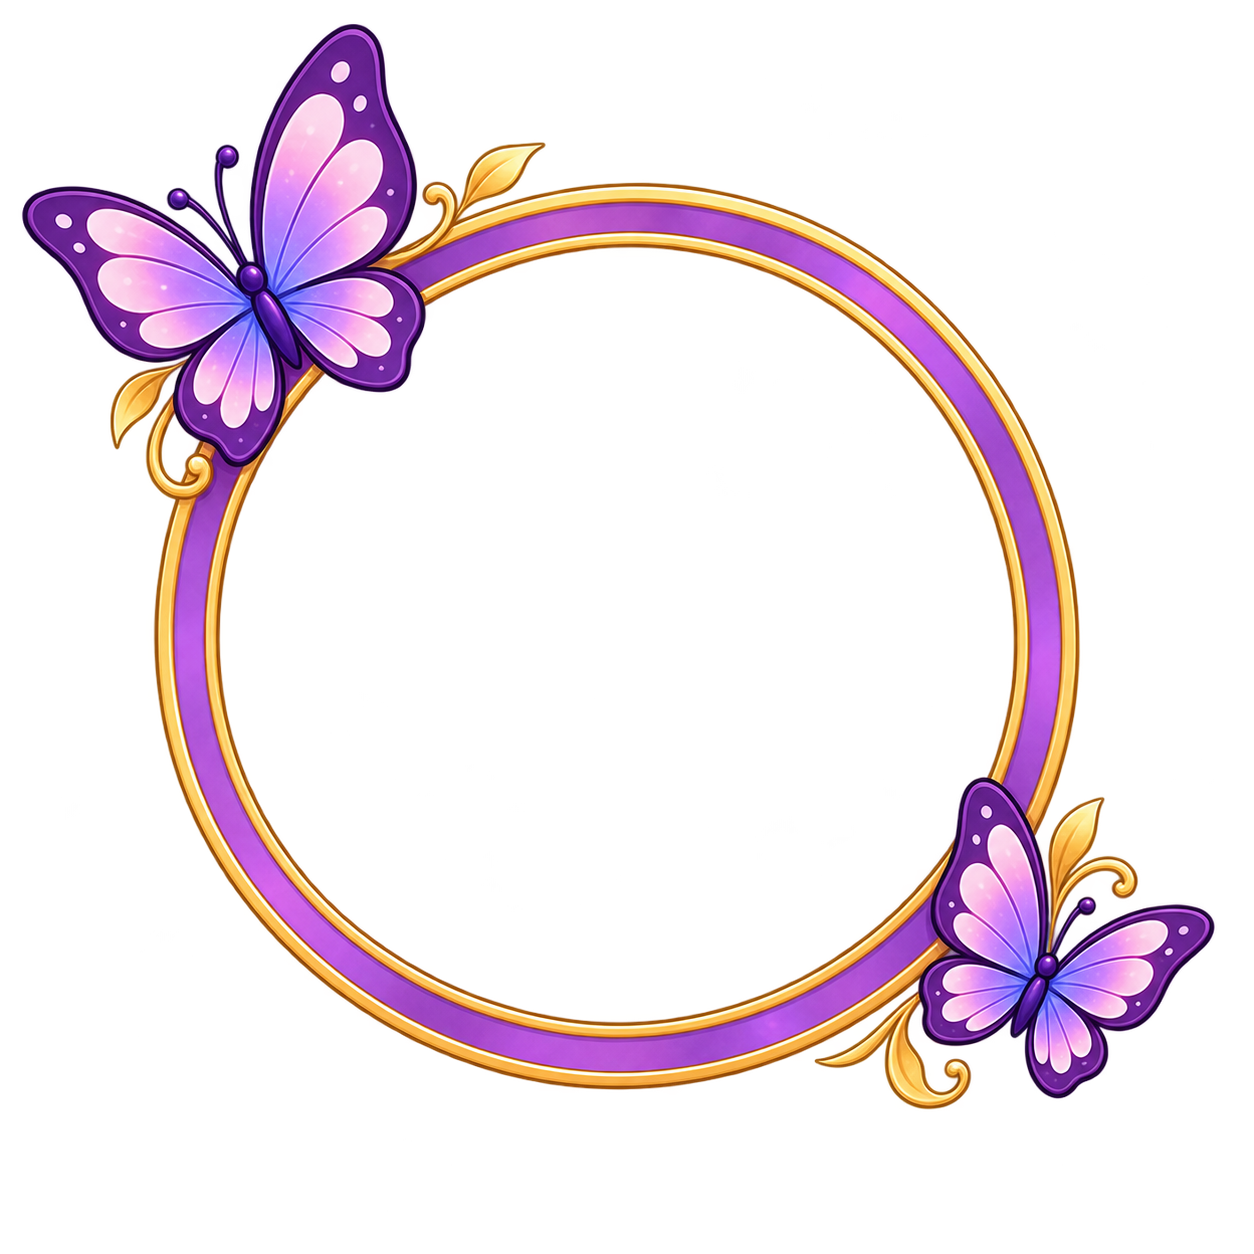
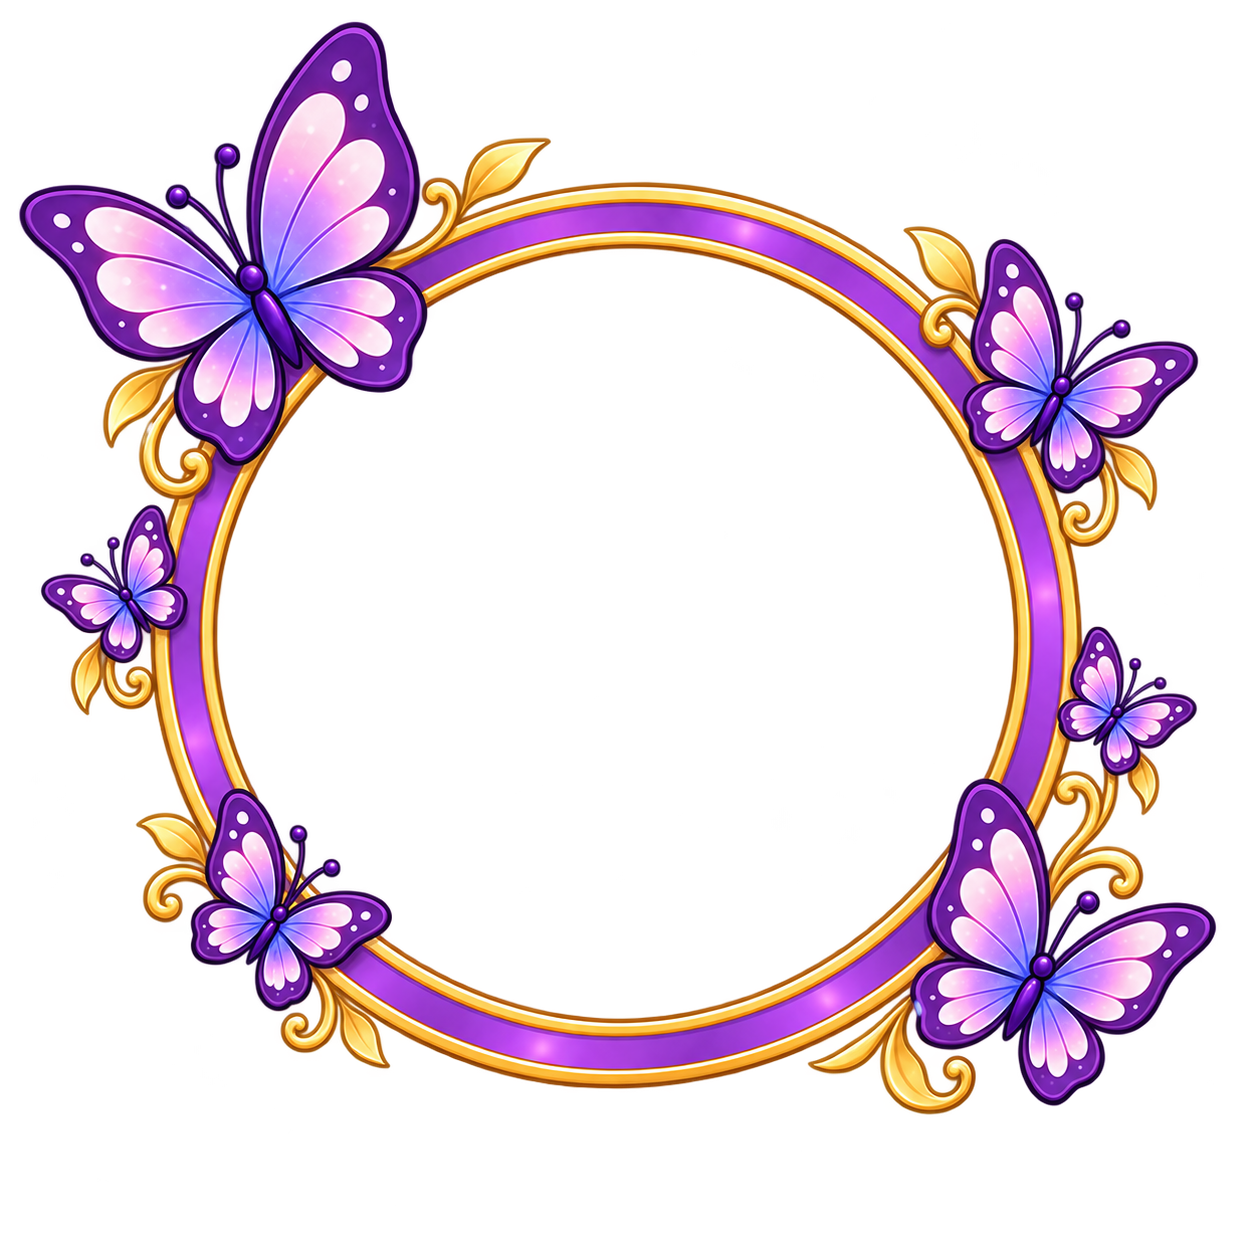
.

Changed region(s): [[0.0, 0.0, 0.9641, 0.9019]]

diff --git a/loja/loja.php b/loja/loja.php
@@ -466,6 +466,16 @@ $estruturaLojaPadrao = [
         ],
 
         [
+            'id' => 'moldura_neon',
+            'nome' => 'Moldura Neon',
+            'descricao' => 'Brilho neon em azul e rosa',
+            'preco' => 80,
+            'icone' => 'fa-regular fa-image',
+            'categoria' => 'molduras',
+            'imagem' => '../img/loja/moldura/neon.png'
+        ],
+
+        [
             'id' => 'moldura_campeao',
             'nome' => 'Moldura Campeão',
             'descricao' => 'Louros dourados de campeão',
@@ -475,21 +485,21 @@ $estruturaLojaPadrao = [
             'imagem' => '../img/loja/moldura/campeao.png'
         ],
 
-        [
-            'id' => 'moldura_estrelas',
-            'nome' => 'Moldura Estrelas',
-            'descricao' => 'Estrelas brilhando ao redor do perfil',
-            'preco' => 75,
+         [
+            'id' => 'moldura_gato_preto',
+            'nome' => 'Moldura Gato Preto',
+            'descricao' => 'Um gatinho preto acompanhando seu perfil',
+            'preco' => 98,
             'icone' => 'fa-regular fa-image',
             'categoria' => 'molduras',
-            'imagem' => '../img/loja/moldura/estrelas.png'
+            'imagem' => '../img/loja/moldura/gatopreto.png'
         ],
 
         [
             'id' => 'moldura_fogo',
             'nome' => 'Moldura Fogo',
             'descricao' => 'Chamas intensas ao redor do perfil',
-            'preco' => 80,
+            'preco' => 100,
             'icone' => 'fa-regular fa-image',
             'categoria' => 'molduras',
             'imagem' => '../img/loja/moldura/fogo.png'
@@ -506,16 +516,6 @@ $estruturaLojaPadrao = [
         ],
 
         [
-            'id' => 'moldura_gato_preto',
-            'nome' => 'Moldura Gato Preto',
-            'descricao' => 'Um gatinho preto acompanhando seu perfil',
-            'preco' => 85,
-            'icone' => 'fa-regular fa-image',
-            'categoria' => 'molduras',
-            'imagem' => '../img/loja/moldura/gatopreto.png'
-        ],
-
-        [
             'id' => 'moldura_livros',
             'nome' => 'Moldura Livros',
             'descricao' => 'Livros e estrelas para quem vive estudando',
@@ -523,26 +523,6 @@ $estruturaLojaPadrao = [
             'icone' => 'fa-regular fa-image',
             'categoria' => 'molduras',
             'imagem' => '../img/loja/moldura/livros.png'
-        ],
-
-        [
-            'id' => 'moldura_querubim',
-            'nome' => 'Moldura Querubim',
-            'descricao' => 'Asas claras com detalhes dourados',
-            'preco' => 95,
-            'icone' => 'fa-regular fa-image',
-            'categoria' => 'molduras',
-            'imagem' => '../img/loja/moldura/querubim.png'
-        ],
-
-        [
-            'id' => 'moldura_rei',
-            'nome' => 'Moldura Rei',
-            'descricao' => 'Detalhes dourados dignos de realeza',
-            'preco' => 100,
-            'icone' => 'fa-regular fa-image',
-            'categoria' => 'molduras',
-            'imagem' => '../img/loja/moldura/rei.png'
         ],
 
         [
@@ -556,13 +536,13 @@ $estruturaLojaPadrao = [
         ],
 
         [
-            'id' => 'moldura_neon',
-            'nome' => 'Moldura Neon',
-            'descricao' => 'Brilho neon em azul e rosa',
-            'preco' => 80,
+            'id' => 'moldura_querubim',
+            'nome' => 'Moldura Querubim',
+            'descricao' => 'Asas claras com detalhes dourados',
+            'preco' => 95,
             'icone' => 'fa-regular fa-image',
             'categoria' => 'molduras',
-            'imagem' => '../img/loja/moldura/neon.png'
+            'imagem' => '../img/loja/moldura/querubim.png'
         ],
 
         [
@@ -573,6 +553,16 @@ $estruturaLojaPadrao = [
             'icone' => 'fa-regular fa-image',
             'categoria' => 'molduras',
             'imagem' => '../img/loja/moldura/dragao.png'
+        ],
+
+        [
+            'id' => 'moldura_rei',
+            'nome' => 'Moldura Rei',
+            'descricao' => 'Detalhes dourados dignos de realeza',
+            'preco' => 100,
+            'icone' => 'fa-regular fa-image',
+            'categoria' => 'molduras',
+            'imagem' => '../img/loja/moldura/rei.png'
         ],
 
         // ===================================
